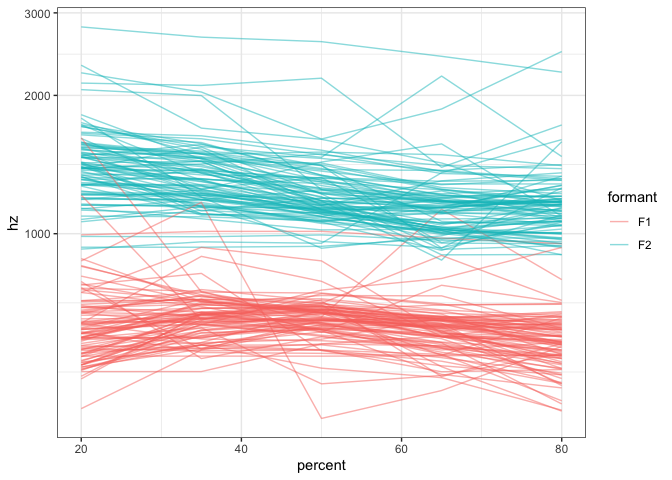
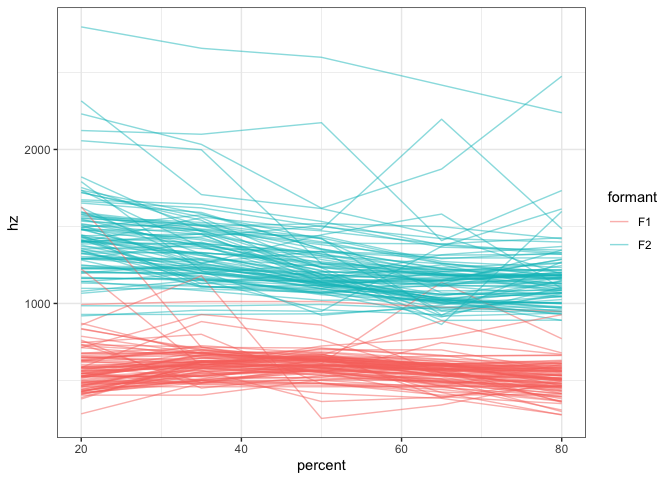
added the Harrington et al (2000) picture

diff --git a/README.md b/README.md
@@ -68,8 +68,15 @@ hz(6)
     ## [1] 631.1045
 
 But it would be better if we could incorporate more interpretable values
-into the plot itself.
+into the plot itself. I think the first time I saw thi was in
+[Harrington et al’s (2000)
+paper](https://www.jstor.org/stable/44526873?seq=1#metadata_info_tab_contents)
+on how the Queen of England’s speech changes over
+time:
 
+<img src="harrington_sample.jpg" width="500px" style="display: block; margin: auto;" />
+
+Notice how the axes are in Barks, but the data is still plotted in Hz.
 This is a perfect case for using the `scale_x_bark()` and
 `scale_y_bark()` functions. Like the other `scale_*` functions in
 ggplot2, this will transform the axes of your plot. In this case, it’ll
@@ -86,7 +93,7 @@ ggplot(vowels, aes(F2, F1)) +
        subtitle = "Data is in Hz; plot is in Barks")
 ```
 
-![](README_files/figure-gfm/unnamed-chunk-6-1.png)<!-- -->
+![](README_files/figure-gfm/unnamed-chunk-7-1.png)<!-- -->
 
 Now, you can see that the shape of the vowel space is identical to the
 plot above, except the axis labels are more useful: I have a better idea
@@ -112,7 +119,7 @@ ggplot(vowels, aes(F2, F1)) +
        subtitle = "Data is in Hz; plot is in Barks")
 ```
 
-![](README_files/figure-gfm/unnamed-chunk-7-1.png)<!-- -->
+![](README_files/figure-gfm/unnamed-chunk-8-1.png)<!-- -->
 
 Exactly which values you want to put is up to you, obviously, so play
 around with it until it looks good.
@@ -150,7 +157,7 @@ ggplot(vowels_long, aes(percent, hz, color = formant, group = traj_id)) +
   theme_bw()
 ```
 
-![](README_files/figure-gfm/unnamed-chunk-9-1.png)<!-- -->
+![](README_files/figure-gfm/unnamed-chunk-10-1.png)<!-- -->
 
 Now, a lot of the change in /ai/ happens along the F1 dimension, but
 because of the logorithmic nature of sound, F2 visually takes up most of
@@ -165,7 +172,7 @@ ggplot(vowels_long, aes(percent, hz, color = formant, group = traj_id)) +
   theme_bw()
 ```
 
-![](README_files/figure-gfm/unnamed-chunk-10-1.png)<!-- -->
+![](README_files/figure-gfm/unnamed-chunk-11-1.png)<!-- -->
 
 Note that this time, I added the argument `rev = FALSE` to
 `scale_y_bark`. By default, the function will flip the axis (like
